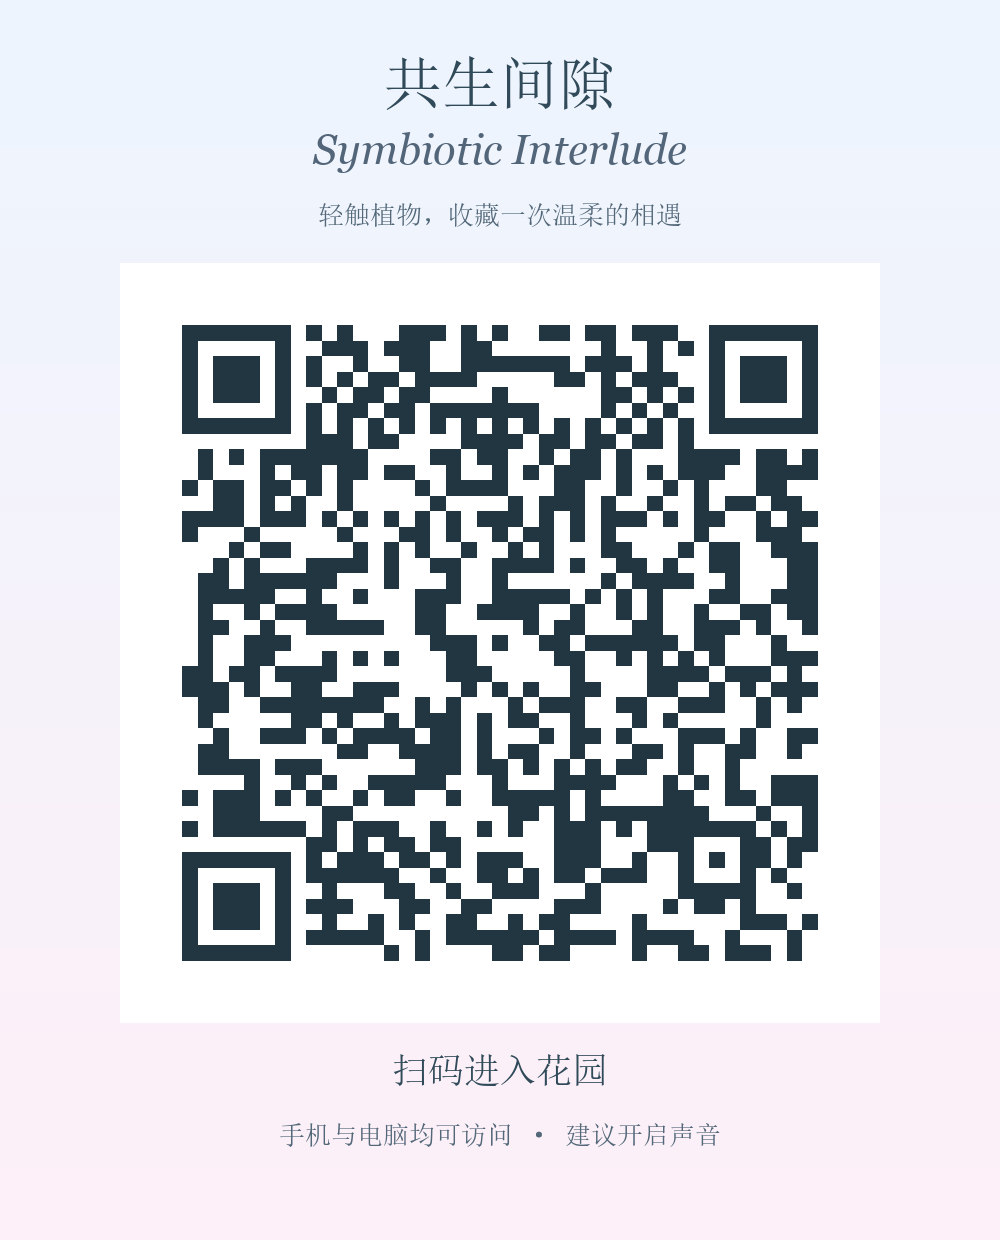
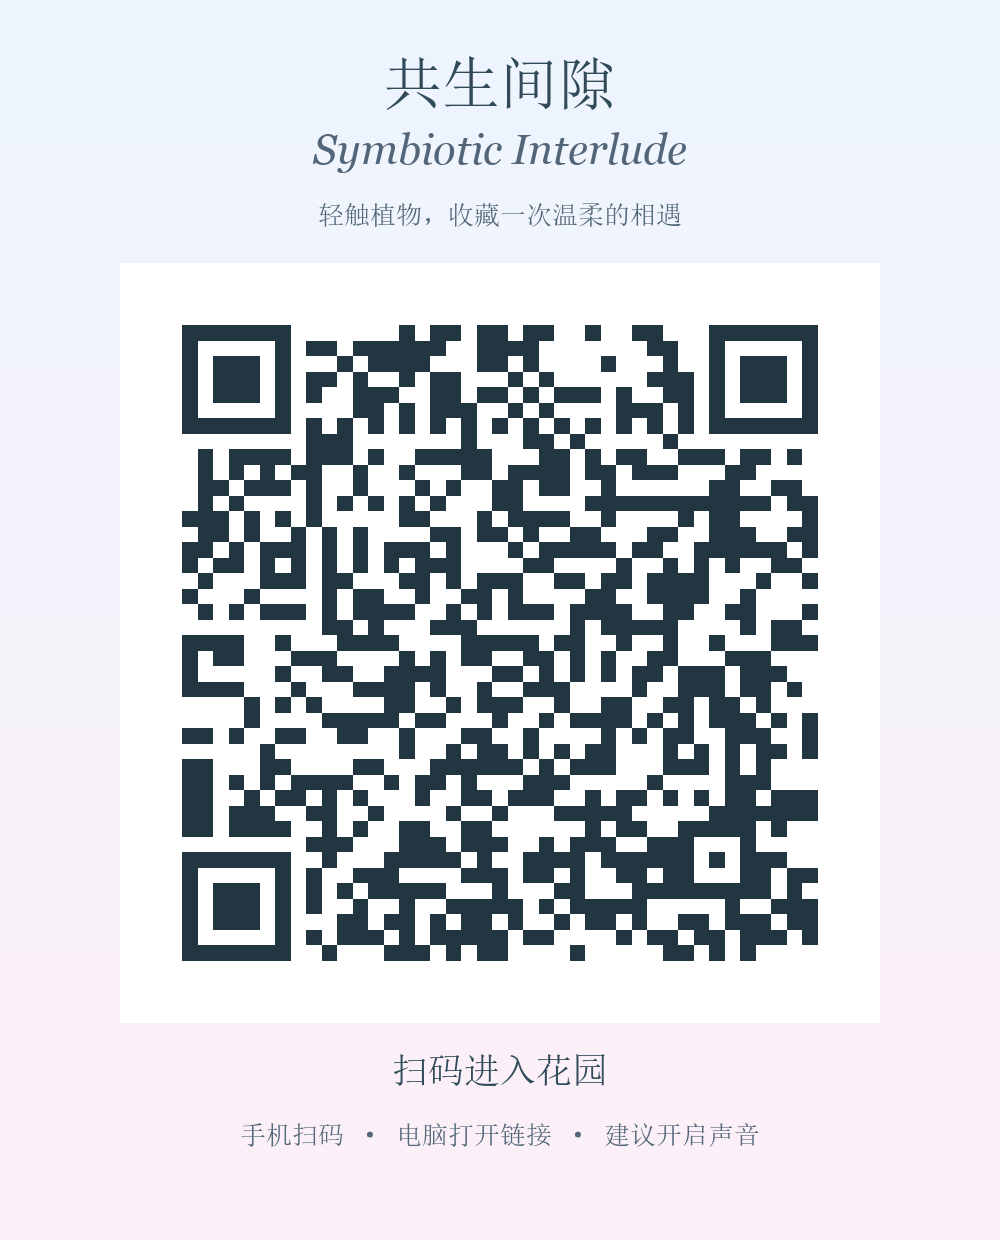
Add independent static deployment and readable project overview

Changed region(s): [[0.155, 0.2452, 0.837, 0.7968], [0.248, 0.8887, 0.744, 0.95]]

diff --git a/project.html b/project.html
@@ -1,0 +1,19 @@
+<!doctype html>
+<html lang="zh-CN">
+<head>
+<meta charset="utf-8"><meta name="viewport" content="width=device-width,initial-scale=1">
+<title>共生间隙 项目说明与网页体验</title>
+<meta name="description" content="共生间隙是一个植物陪伴与互动艺术网页。本页无需登录或运行 JavaScript，即可阅读功能、输入输出、技术边界、源码与部署说明。">
+<meta name="theme-color" content="#edf2fb"><link rel="stylesheet" href="src/project.css">
+<link rel="alternate" type="text/plain" href="llms.txt" title="供 AI 阅读的项目说明">
+<script type="application/ld+json">{"@context":"https://schema.org","@type":"CreativeWork","name":"共生间隙 Symbiotic Interlude","description":"植物陪伴与互动艺术网页，含模拟触碰、浇灌、作品收藏与成长记录。","inLanguage":"zh-CN","url":"https://yangbingqian54-lgtm.github.io/symbiotic-interlude-demo/project.html","isAccessibleForFree":true}</script>
+</head>
+<body>
+<header><a class="wordmark" href="project.html">Symbiotic <em>Interlude</em><span>共生间隙</span></a><nav aria-label="项目导航"><a href="#experience">体验内容</a><a href="#implementation">实现边界</a><a href="#handoff">源码与部署</a></nav></header>
+<main>
+<section class="hero" aria-labelledby="title"><div class="hero-copy"><p class="eyebrow">植物陪伴与互动艺术</p><h1 id="title">留一点时间，<br>与自然相遇。</h1><p class="intro">在蓝粉花海里轻触一株植物，让指尖变成光迹，让一滴雨留下涟漪。收藏这次相遇，把作品夹进天空花笺，再下载带走。</p><div class="actions"><a class="primary" href="index.html">进入互动花园 <span aria-hidden="true">↗</span></a><a class="secondary" href="llms.txt">阅读项目文本</a></div><p class="small">手机、电脑共用一个入口。声音在首次操作后开启，作品保存在当前浏览器。</p></div><figure><img src="assets/garden-reference.jpg" alt="蓝色天空与粉色花海中的四株植物和天空花笺" width="1672" height="941"><figcaption>共生间隙的花园场景</figcaption></figure></section>
+<section id="experience" class="section"><p class="eyebrow">如何体验</p><h2>一次轻触，慢慢靠近。</h2><p>黑屏欢迎页可按住拖动，展开俯视花簇；点击进入后播放一次约 8.5 秒的开场，随后自动抵达花园。视频加载失败时，仍可使用“直接进入花园”。先选中植物，再次点击进入对应功能。</p><dl class="plants"><div><dt>蝴蝶兰</dt><dd>触碰与暖色光迹。通过鼠标、触屏、键盘或按钮，创作并收藏一幅艺术画面。</dd></div><div><dt>圆叶</dt><dd>浇灌与水滴涟漪。每次操作落下一滴清透水滴，配合实录滴水声，穿过土壤后渐隐。</dd></div><div><dt>白花</dt><dd>观察与花间日记。记录日期、植物归属和一句观察，也可上传自己的成长照片。</dd></div><div><dt>紫叶</dt><dd>陪伴与互动心情。根据所选植物的本机记录展示拟人反馈，可切换查看四株植物。</dd></div></dl><p>生成并收藏成功后，作品会定格供查看。进入天空花笺与相册，可放大、筛选、下载或确认删除。浇灌艺术作品的收藏记录计为一次虚拟浇水。</p></section>
+<section id="implementation" class="section boundary"><div><p class="eyebrow">输入与输出</p><h2>看得见的回应，<br>说得清的边界。</h2></div><div><h3>已经实现</h3><p>鼠标、触屏和手动强度输入 → Canvas 2D 本地艺术算法 → 作品截图 → IndexedDB 本机收藏 → 天空花笺与下载。触碰与浇灌有不同视觉和声音反馈，支持照片、日记与植物归属。</p><h3>AI 的实际作用</h3><p>AI 用于前期视觉参考、素材与开发辅助。当前运行时没有在线 AI 文生图、模型推理、植物情绪识别或健康诊断。心情是互动记录的艺术表达，不是养护建议。</p><h3>还未接入</h3><p>真实压力与土壤湿度传感器、Arduino 串口、TouchDesigner 实时输出、高斯泼溅世界和云端作品同步均未接通。已保留前端内容替换槽，不能据此认为设备已连接。</p></div></section>
+<section id="handoff" class="section"><p class="eyebrow">供团队与其他模型查看</p><h2>从网页到源码，都可以直接阅读。</h2><p>此页是静态 HTML，正文不需要 JavaScript、登录或观看开场。可以把本页网址或下列文本地址交给其他模型；模型是否能联网及读取动态画面，取决于其自身工具。阅读说明不代表它已实际操作过网站。</p><ul class="resources"><li><a href="llms.txt">纯文本项目说明 <span>llms.txt</span></a></li><li><a href="project.json">结构化功能与接入状态 <span>project.json</span></a></li><li><a href="https://github.com/YANGBQ-Iris/living-embroidery/tree/web-ui">团队源码 <span>web-ui 分支</span></a></li><li><a href="https://github.com/yangbingqian54-lgtm/symbiotic-interlude-demo">独立发布仓库 <span>GitHub Pages</span></a></li><li><a href="DEPLOYMENT.md">独立部署说明 <span>静态托管与本地启动</span></a></li></ul><p class="small">本机记录随网址、协议和端口区分。更换到新站点后，不会自动带入旧站点的收藏；请从旧站点下载作品或导出备份。无需让本地电脑持续开机来维持线上访问。</p><a class="primary" href="index.html">开始这次相遇 ↗</a></section>
+</main><footer>共生间隙 · Symbiotic Interlude <span>独立静态发布版 V4.8.7</span></footer>
+</body></html>

diff --git a/src/project.css b/src/project.css
@@ -1,0 +1,1 @@
+:root{color-scheme:light;--ink:#304954;--muted:#516976;--line:#d4dee6;--song:"Noto Serif SC","Songti SC",SimSun,serif}*{box-sizing:border-box}html{scroll-behavior:smooth}body{margin:0;color:var(--ink);background:linear-gradient(145deg,#edf4ff 0%,#f9f2f8 47%,#f8fbf8 100%);font:17px/1.85 system-ui,-apple-system,"Microsoft YaHei",sans-serif}a{color:inherit;text-underline-offset:5px}a:focus-visible{outline:3px solid #628798;outline-offset:6px}header,main,footer{width:min(1200px,calc(100% - 80px));margin:auto}header{display:flex;justify-content:space-between;align-items:center;padding:32px 0;border-bottom:1px solid var(--line)}.wordmark{font:27px Georgia,serif;text-decoration:none}.wordmark span{display:block;font:13px/2.5 var(--song);letter-spacing:.35em}nav{display:flex;gap:32px;font-size:15px}nav a{text-decoration:none}.hero{display:grid;grid-template-columns:1fr 1.12fr;align-items:center;gap:64px;padding:90px 0 80px}.eyebrow{font-size:14px;letter-spacing:.12em;color:var(--muted);margin:0 0 22px}h1,h2,h3{font-family:var(--song);font-weight:400}h1{font-size:clamp(40px,4.5vw,62px);line-height:1.45;margin:0 0 28px;letter-spacing:.03em}h2{font-size:clamp(30px,3vw,42px);line-height:1.6;margin:0 0 28px}h3{font-size:23px;margin:28px 0 10px}p{max-width:76ch;margin:0 0 24px}.intro{font-size:18px}.actions{display:flex;flex-wrap:wrap;gap:20px;align-items:center;margin:32px 0 20px}.primary{display:inline-flex;justify-content:space-between;gap:34px;align-items:center;border-radius:40px;background:#3f6168;color:white;padding:13px 25px;text-decoration:none;font-size:17px;min-height:48px}.primary:hover{background:#2d4c54}.secondary{font-size:16px}.small{font-size:14px;color:var(--muted);line-height:1.9}figure{margin:0}figure img{display:block;width:100%;height:auto;aspect-ratio:1.45;object-fit:cover;border-radius:48% 48% 8px 8px}figcaption{font:14px/2 var(--song);text-align:center;color:var(--muted);margin-top:15px}.section{padding:70px 0;border-top:1px solid var(--line)}.plants{display:grid;grid-template-columns:repeat(4,1fr);gap:28px;margin:36px 0}.plants>div{border-top:1px solid #9fb7bd;padding-top:20px}.plants dt{font:25px var(--song);margin-bottom:15px}.plants dd{font-size:16px;margin:0;color:var(--muted)}.boundary{display:grid;grid-template-columns:.9fr 1.1fr;gap:80px}.boundary h3:first-child{margin-top:0}.resources{padding:0;list-style:none;margin:30px 0}.resources li{border-bottom:1px solid var(--line)}.resources a{display:flex;justify-content:space-between;gap:20px;padding:17px 0;text-decoration:none}.resources a:hover{text-decoration:underline}.resources span{font-size:14px;color:var(--muted)}footer{display:flex;justify-content:space-between;gap:20px;border-top:1px solid var(--line);padding:28px 0;font-size:14px;color:var(--muted)}@media(max-width:800px){header,main,footer{width:calc(100% - 40px)}header{align-items:flex-start;gap:20px}nav{gap:14px;flex-wrap:wrap;justify-content:flex-end;font-size:13px;max-width:170px}.wordmark{font-size:21px}.hero{grid-template-columns:1fr;gap:36px;padding:50px 0}.hero figure{max-width:600px}.hero figure img{aspect-ratio:1.5;border-radius:16px}.plants{grid-template-columns:1fr 1fr;gap:26px}.boundary{grid-template-columns:1fr;gap:12px}.section{padding:45px 0}.resources a{display:block}.resources span{display:block}footer{flex-direction:column;gap:8px}}@media(prefers-reduced-motion:reduce){html{scroll-behavior:auto}}

diff --git a/DEPLOYMENT.md b/DEPLOYMENT.md
@@ -1,0 +1,43 @@
+# 共生间隙独立部署说明
+
+## 两个公开入口
+
+- 互动体验：https://yangbingqian54-lgtm.github.io/symbiotic-interlude-demo/
+- 电脑与模型可读的项目页：https://yangbingqian54-lgtm.github.io/symbiotic-interlude-demo/project.html
+- 纯文本说明：同一站点下的 llms.txt。静态正文无需 JavaScript 或登录；其他模型是否可以访问仍由它自身的联网工具决定。
+
+此前 chatgpt.site 地址已设为公开，但用户手机实际收到 Cloudflare blocked 页面。那是托管域名的访问拦截，不是 QR 编码错误，也不是已确认的网页布局问题。新的发布副本使用独立 GitHub Pages 地址；仍需在手机真实网络上复核，不承诺所有网络畅通。
+
+## 打包现有成品
+
+1. 使用团队 web-ui 分支，确认 Node.js 20.11 或更新版本。
+2. 运行 npm run check 和 npm test。
+3. 运行 npm run build，生成 dist。不要把整个开发目录当作公开目录。
+4. 把 dist 内的文件完整上传到静态网站托管的根目录，保留 src、assets 的相对位置。
+5. 使用 HTTP 或 HTTPS 访问。双击 file:// 文件不能可靠运行 ES modules。
+6. 核对 index.html、project.html、8.5 秒视频、四株植物、声音、保存和下载，再用真实手机扫码。
+
+不需要数据库服务器、AI Key 或常驻 Node 服务。程序使用当前浏览器的 IndexedDB；更换域名、端口或协议不会自动迁移旧作品。
+
+## GitHub Pages 发布副本
+
+团队仓库 YANGBQ-Iris/living-embroidery 的 web-ui 用于源码协作。当前登录账号只有该仓库 push 权限，不能修改它的 Pages 设置。因此在个人账号 yangbingqian54-lgtm 下建立独立发布仓库 symbiotic-interlude-demo，main 根目录存放 dist 成品，Pages 以 main 的根目录为发布源。
+
+更新时先在团队分支测试与提交，再运行打包，将 dist 同步到发布仓库 main，普通提交并推送，不强制覆盖历史。发布仓库不是新的硬件工程，也不代替团队分支。
+
+## 迁移到其他静态托管
+
+dist 可交给 Nginx、学校服务器或其他静态网站平台。提供正确的 text/javascript、text/css、video/mp4、audio/wav 类型；视频最好支持范围请求。现有资源使用相对路径，可部署在子目录。
+
+更换公开地址后，同步修改本文件、llms.txt、project.json、project.html 的结构化地址、sitemap.xml、README 与二维码，避免继续分享旧地址。不要为了修复托管网络拦截而关闭访客设备的安全设置。
+
+## 接入与公开内容
+
+现有互动仍为网页演示。静态托管不自动提供 Arduino 串口、TouchDesigner、云保存或在线 AI 服务。代码目录里的历史模拟器不代表真实设备接入。
+
+打包只复制运行文件与公开说明，排除包含本地路径的 assets/metadata.json、开发日志、临时导出和凭据。原始 Word 记录的是 V4.8.6 的过程，部署地址以后续本文为准。
+
+## 本轮验证
+
+2026-10-25：桌面与手机尺寸的浏览器检查通过，用户已用真实手机确认新地址能够正常进入花园。此结果适用于本次测试，不代表所有地区和网络均可访问。
+

diff --git a/README.md b/README.md
@@ -1,14 +1,18 @@
 # 共生间隙 · Symbiotic Interlude
 
-当前版本 **V4.8.6**。蓝粉花海中的植物互动艺术网站，保留温柔陪伴、英文标题、白色宋体呼吸光和天空花笺。
+当前版本 **V4.8.7**。蓝粉花海中的植物互动艺术网站，保留温柔陪伴、英文标题、白色宋体呼吸光和天空花笺。
 
 ## 在线体验
 
-[打开共生间隙](https://symbiotic-interlude-garden.yangbingqian54.chatgpt.site) · 手机、电脑可同时访问，无需登录。
+[打开共生间隙](https://yangbingqian54-lgtm.github.io/symbiotic-interlude-demo/) · 手机、电脑可同时访问，无需登录。
 
 ![扫码体验](docs/share/共生间隙-扫码体验.png)
 
-在线演示由 Sites 托管；GitHub `web-ui` 分支保存源代码。各设备的作品保存在各自浏览器，不自动同步。
+在线演示新增独立 GitHub Pages 发布副本，团队 `web-ui` 分支保存源代码。此前 chatgpt.site 入口有手机遭 Cloudflare 拦截的反馈，新入口已由用户确认可在真实手机上正常进入花园。各设备的作品保存在各自浏览器，不自动同步。
+
+[电脑与模型可读的项目页](https://yangbingqian54-lgtm.github.io/symbiotic-interlude-demo/project.html) · [纯文本说明](https://yangbingqian54-lgtm.github.io/symbiotic-interlude-demo/llms.txt) · [独立部署说明](DEPLOYMENT.md)
+
+运行 `npm run build` 生成可独立托管的 `dist/`。无需账号或在线 AI 服务。
 
 ## 运行
 
